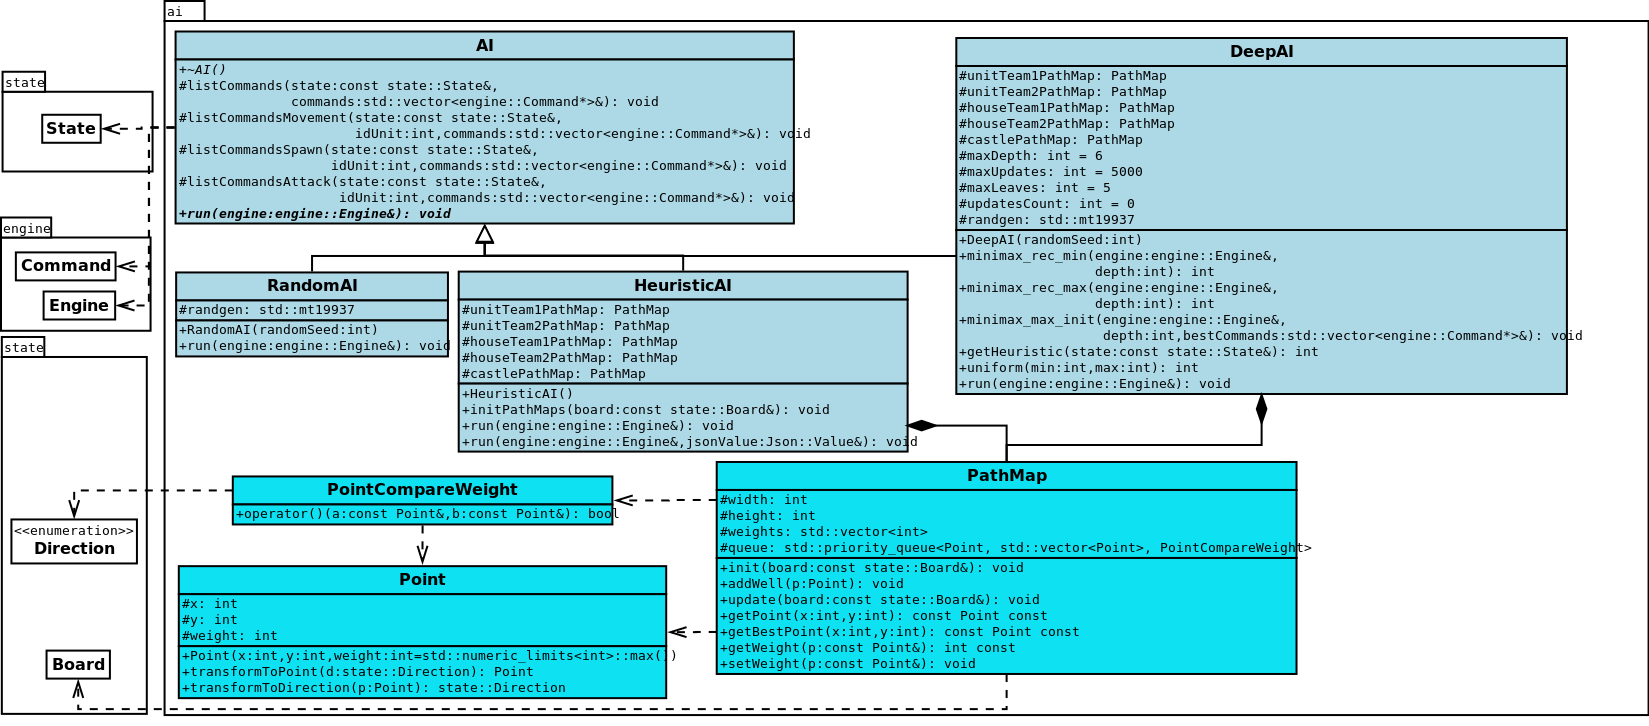
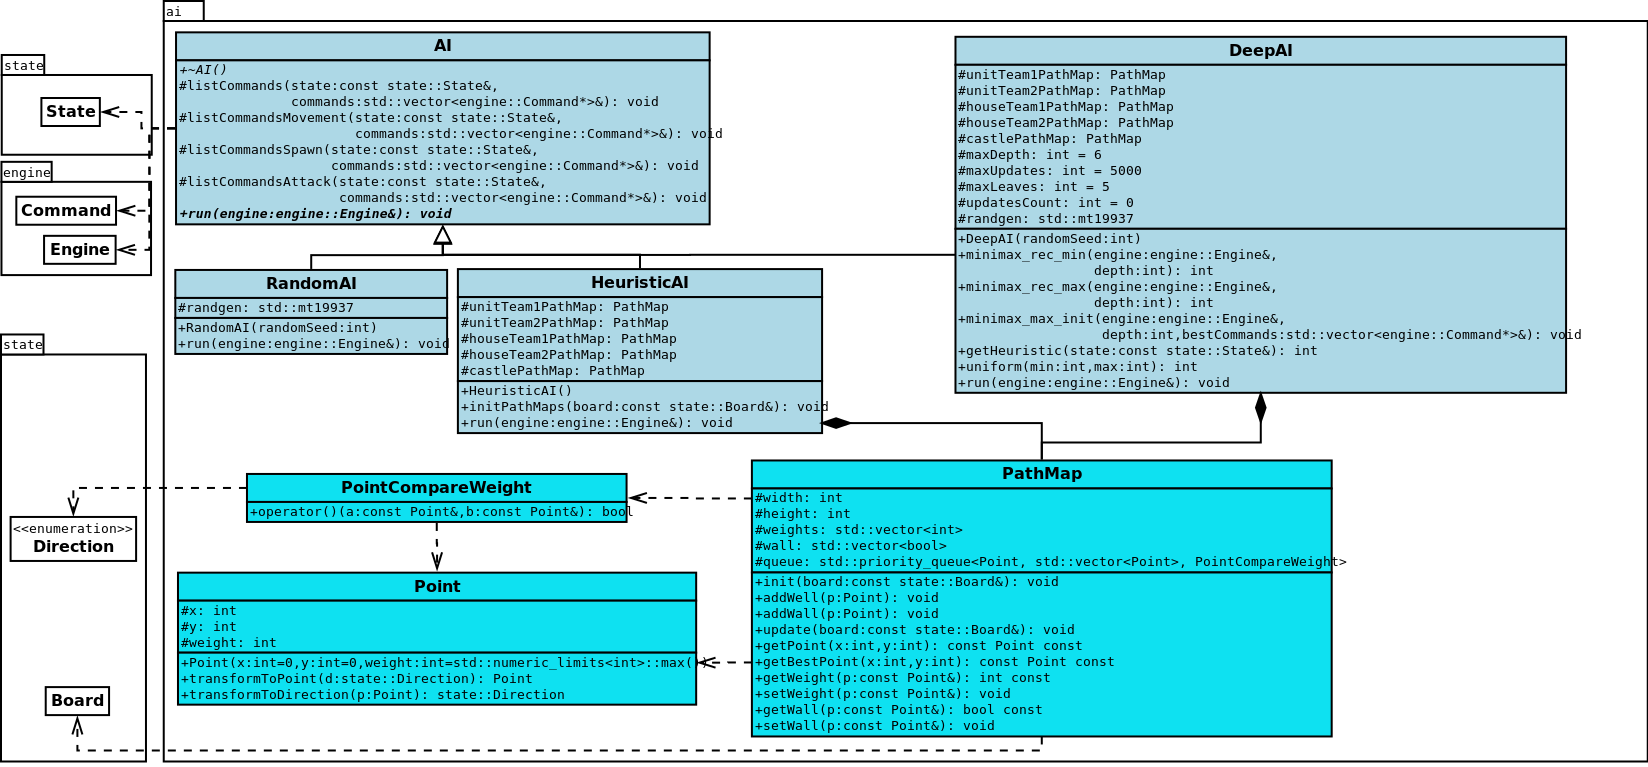
Remove run with json

diff --git a/src/shared/ai/HeuristicAI.cpp b/src/shared/ai/HeuristicAI.cpp
@@ -91,9 +91,15 @@ namespace ai {
                 if (commandsMovement.size() != 0) {
                     state::Unit* unit = engine.getState().getBoard().findUnit(((engine::MoveCommand*)commandsMovement.front())->getIdUnit());
                     Point pointUnit(unit->getPositionX(), unit->getPositionY());
-                    Point bestPoint = unitTeam2PathMap.getBestPoint(unit->getPositionX(), unit->getPositionY());
+                    Point bestPoint;
                     unsigned int it;
                     
+                    if(unitTeam2PathMap.getBestPoint(unit->getPositionX(), unit->getPositionY()).getWeight() < houseTeam2PathMap.getBestPoint(unit->getPositionX(), unit->getPositionY()).getWeight()) {
+                        bestPoint = unitTeam2PathMap.getBestPoint(unit->getPositionX(), unit->getPositionY());
+                    } else {
+                        bestPoint = houseTeam2PathMap.getBestPoint(unit->getPositionX(), unit->getPositionY());
+                    }
+
                     for (it = 0; it < commandsMovement.size(); it++) {
                         if (unit->getId() == ((engine::MoveCommand*)commandsMovement.at(it))->getIdUnit() && 
                                 ((engine::MoveCommand*)commandsMovement.at(it))->getDirection() == bestPoint.transformToDirection(pointUnit)) {
@@ -102,7 +108,7 @@ namespace ai {
                         }
                     }
                     if (it == commandsMovement.size()) {
-                        engine.getState().getBoard().findUnit(unit->getId())->setSpeed(0);
+                        unit->setSpeed(0);
                     }
                     break;
                 }
@@ -122,8 +128,14 @@ namespace ai {
                 if (commandsMovement.size() != 0) {
                     state::Unit* unit = engine.getState().getBoard().findUnit(((engine::MoveCommand*)commandsMovement.front())->getIdUnit());
                     Point pointUnit(unit->getPositionX(), unit->getPositionY());
-                    Point bestPoint = unitTeam1PathMap.getBestPoint(unit->getPositionX(), unit->getPositionY());
+                    Point bestPoint;
                     unsigned int it;
+                    
+                    if(unitTeam1PathMap.getBestPoint(unit->getPositionX(), unit->getPositionY()).getWeight() < houseTeam1PathMap.getBestPoint(unit->getPositionX(), unit->getPositionY()).getWeight()) {
+                        bestPoint = unitTeam1PathMap.getBestPoint(unit->getPositionX(), unit->getPositionY());
+                    } else {
+                        bestPoint = houseTeam1PathMap.getBestPoint(unit->getPositionX(), unit->getPositionY());
+                    }
                     
                     for (it = 0; it < commandsMovement.size(); it++) {
                         if (unit->getId() == ((engine::MoveCommand*)commandsMovement.at(it))->getIdUnit() && 
@@ -133,7 +145,7 @@ namespace ai {
                         }
                     }
                     if (it == commandsMovement.size()) {
-                        engine.getState().getBoard().findUnit(unit->getId())->setSpeed(0);
+                        unit->setSpeed(0);
                     }
                     break;
                 }
@@ -148,215 +160,6 @@ namespace ai {
         commandsAttack.clear();
         commandsMovement.clear();
         commandsSpawn.clear();
-    }
-
-    void HeuristicAI::run(engine::Engine& engine, Json::Value& jsonValue) {
-        const std::map<int, std::unique_ptr<state::Unit> >& units = engine.getState().getBoard().getUnits();
-        std::vector<engine::Command*> commands;
-        Point point(0, 0);
-        unsigned int it;
-
-        initPathMaps(engine.getState().getBoard());
-        listCommands(engine.getState(), commands);
-        
-        switch (engine.getState().getCurrentTeam()) {
-            case state::TeamId::TEAM_1:
-                for (auto& u : units) {
-                    if (u.second->getTeam() == state::TeamId::TEAM_1) {
-                        if(u.second->getTypeId() == state::UnitTypeId::LEADER) {
-                            bool commandSpawn = false;
-                            for (it = 0; it < commands.size(); it++) {
-                                if (commands.at(it)->getTypeId() == engine::CommandTypeId::SPAWN) {
-                                    if (((engine::SpawnCommand*)commands.at(it))->getX() == u.second->getPositionX() && ((engine::SpawnCommand*)commands.at(it))->getY() == u.second->getPositionY()) {
-                                        commandSpawn = true;
-                                        break;
-                                    }
-                                }
-                            }
-                            
-                            while (commandSpawn) {
-                                engine.addCommand(1, commands.at(it));
-                                engine.update(jsonValue);
-                                
-                                commandSpawn = false;
-                                listCommands(engine.getState(), commands);
-                                for (it = 0; it < commands.size(); it++) {
-                                    if (commands.at(it)->getTypeId() == engine::CommandTypeId::SPAWN) {
-                                        if (((engine::SpawnCommand*)commands.at(it))->getX() == u.second->getPositionX() && ((engine::SpawnCommand*)commands.at(it))->getY() == u.second->getPositionY()) {
-                                            commandSpawn = true;
-                                            break;
-                                        }
-                                    }
-                                }
-                            }
-                            
-                            commands.clear();
-                        }
-
-                        listCommands(engine.getState(), commands);
-                        if(unitTeam2PathMap.getBestPoint(u.second->getPositionX(), u.second->getPositionY()).getWeight() < houseTeam2PathMap.getBestPoint(u.second->getPositionX(), u.second->getPositionY()).getWeight()) {
-                            point = unitTeam2PathMap.getBestPoint(u.second->getPositionX(), u.second->getPositionY());
-                        } else {
-                            point = houseTeam2PathMap.getBestPoint(u.second->getPositionX(), u.second->getPositionY());
-                        }
-
-                        if (unitTeam2PathMap.getBestPoint(u.second->getPositionX(), u.second->getPositionY()).getWeight() == 0) {
-                            for (it = 0; it < commands.size(); it++) {
-                                if (commands.at(it)->getTypeId() == engine::CommandTypeId::ATTACK) {
-                                    if (((engine::AttackCommand*)commands.at(it))->getIdUnitAttacker() == u.second->getId()) {
-                                        engine.addCommand(1, commands.at(it));
-                                        engine.update(jsonValue);
-                                        break;
-                                    }
-                                }
-                            }
-
-                            commands.clear();
-                        } else {
-                            bool commandMovement = false;
-                            for (it = 0; it < commands.size(); it++) {
-                                if (commands.at(it)->getTypeId() == engine::CommandTypeId::MOVE) {
-                                    if (((engine::MoveCommand*)commands.at(it))->getIdUnit() == u.second->getId() 
-                                            && ((engine::MoveCommand*)commands.at(it))->getDirection() == 
-                                            point.transformToDirection(Point(u.second->getPositionX(), u.second->getPositionY()))) {
-                                        commandMovement = true;                                    
-                                        break;
-                                    }
-                                }
-                            }
-
-                            while (commandMovement) {
-                                engine.addCommand(1, commands.at(it));
-                                engine.update(jsonValue);
-                                initPathMaps(engine.getState().getBoard());
-                                listCommands(engine.getState(), commands);
-                                if(unitTeam2PathMap.getBestPoint(u.second->getPositionX(), u.second->getPositionY()).getWeight() < houseTeam2PathMap.getBestPoint(u.second->getPositionX(), u.second->getPositionY()).getWeight()) {
-                                    point = unitTeam2PathMap.getBestPoint(u.second->getPositionX(), u.second->getPositionY());
-                                } else {
-                                    point = houseTeam2PathMap.getBestPoint(u.second->getPositionX(), u.second->getPositionY());
-                                }
-                                commandMovement = false;
-
-                                for (it = 0; it < commands.size(); it++) {
-                                    if (commands.at(it)->getTypeId() == engine::CommandTypeId::MOVE) {
-                                        if (((engine::MoveCommand*)commands.at(it))->getIdUnit() == u.second->getId() 
-                                                && ((engine::MoveCommand*)commands.at(it))->getDirection() == 
-                                                point.transformToDirection(Point(u.second->getPositionX(), u.second->getPositionY()))) {
-                                            commandMovement = true;                                    
-                                            break;
-                                        }
-                                    }
-                                }
-                            }
-                            commands.clear();
-                        }
-                    }
-                }               
-                break;
-                
-            case state::TeamId::TEAM_2:
-                for (auto& u : units) {
-                    if (u.second->getTeam() == state::TeamId::TEAM_2) {
-                        if(u.second->getTypeId() == state::UnitTypeId::LEADER) {
-                            bool commandSpawn = false;
-                            for (it = 0; it < commands.size(); it++) {
-                                if (commands.at(it)->getTypeId() == engine::CommandTypeId::SPAWN) {
-                                    if (((engine::SpawnCommand*)commands.at(it))->getX() == u.second->getPositionX() && ((engine::SpawnCommand*)commands.at(it))->getY() == u.second->getPositionY()) {
-                                        commandSpawn = true;
-                                        break;
-                                    }
-                                }
-                            }
-                            
-                            while (commandSpawn) {
-                                engine.addCommand(1, commands.at(it));
-                                engine.update(jsonValue);
-                                
-                                commandSpawn = false;
-                                listCommands(engine.getState(), commands);
-                                for (it = 0; it < commands.size(); it++) {
-                                    if (commands.at(it)->getTypeId() == engine::CommandTypeId::SPAWN) {
-                                        if (((engine::SpawnCommand*)commands.at(it))->getX() == u.second->getPositionX() && ((engine::SpawnCommand*)commands.at(it))->getY() == u.second->getPositionY()) {
-                                            commandSpawn = true;
-                                            break;
-                                        }
-                                    }
-                                }
-                            }
-                            
-                            commands.clear();
-                        }
-                        
-                        listCommands(engine.getState(), commands);
-                        if(unitTeam1PathMap.getBestPoint(u.second->getPositionX(), u.second->getPositionY()).getWeight() < houseTeam1PathMap.getBestPoint(u.second->getPositionX(), u.second->getPositionY()).getWeight()) {
-                            point = unitTeam1PathMap.getBestPoint(u.second->getPositionX(), u.second->getPositionY());
-                        } else {
-                            point = houseTeam1PathMap.getBestPoint(u.second->getPositionX(), u.second->getPositionY());
-                        }
-                        
-                        if (unitTeam1PathMap.getBestPoint(u.second->getPositionX(), u.second->getPositionY()).getWeight() == 0) {
-                            for (it = 0; it < commands.size(); it++) {
-                                if (commands.at(it)->getTypeId() == engine::CommandTypeId::ATTACK) {
-                                    if (((engine::AttackCommand*)commands.at(it))->getIdUnitAttacker() == u.second->getId()) {
-                                        engine.addCommand(1, commands.at(it));
-                                        engine.update(jsonValue);
-                                        break;
-                                    }
-                                }
-                            }
-                        } else if (point.getWeight() > 0) {
-                            bool commandMovement = false;
-                            for (it = 0; it < commands.size(); it++) {
-                                if (commands.at(it)->getTypeId() == engine::CommandTypeId::MOVE) {
-                                    if (((engine::MoveCommand*)commands.at(it))->getIdUnit() == u.second->getId() 
-                                            && ((engine::MoveCommand*)commands.at(it))->getDirection() == 
-                                            point.transformToDirection(Point(u.second->getPositionX(), u.second->getPositionY()))) {
-                                        commandMovement = true;                                    
-                                        break;
-                                    }
-                                }
-                            }
-
-                            while (commandMovement) {
-                                engine.addCommand(1, commands.at(it));
-                                engine.update(jsonValue);
-                                initPathMaps(engine.getState().getBoard());
-                                listCommands(engine.getState(), commands);
-                                if(unitTeam1PathMap.getBestPoint(u.second->getPositionX(), u.second->getPositionY()).getWeight() < houseTeam1PathMap.getBestPoint(u.second->getPositionX(), u.second->getPositionY()).getWeight()) {
-                                    point = unitTeam1PathMap.getBestPoint(u.second->getPositionX(), u.second->getPositionY());
-                                } else {
-                                    point = houseTeam1PathMap.getBestPoint(u.second->getPositionX(), u.second->getPositionY());
-                                }
-                                commandMovement = false;
-
-                                for (it = 0; it < commands.size(); it++) {
-                                    if (commands.at(it)->getTypeId() == engine::CommandTypeId::MOVE) {
-                                        if (((engine::MoveCommand*)commands.at(it))->getIdUnit() == u.second->getId() 
-                                                && ((engine::MoveCommand*)commands.at(it))->getDirection() == 
-                                                point.transformToDirection(Point(u.second->getPositionX(), u.second->getPositionY()))) {
-                                            commandMovement = true;                                    
-                                            break;
-                                        }
-                                    }
-                                }
-                            }
-                            
-                            commands.clear();                            
-                        }
-                    }
-                }
-                break;
-            
-            case state::TeamId::INVALIDTEAM:
-                break;
-        }
-        
-            
-        engine.addCommand(1, new engine::EndTurnCommand());        
-        engine.addCommand(2, new engine::HandleWinCommand());
-        engine.update(jsonValue);
-        
-        commands.clear(); 
     }
     
     const PathMap& HeuristicAI::getHouseTeam1PathMap() const {

diff --git a/src/client/play.cpp b/src/client/play.cpp
@@ -13,7 +13,7 @@ namespace play {
         int windowHeight = 576;
         int mapWidth = 22;
         int mapHeight = 8;
-        int timePause = 1000;
+        int timePause = 100;
         int commandIterator = 0;
         Engine engine(mapWidth, mapHeight);  
         Scene* scene = new Scene(engine.getState());
@@ -51,10 +51,10 @@ namespace play {
                 } else if(event.type == sf::Event::KeyPressed && event.key.code == sf::Keyboard::P) {
                     pause = !pause;
                 } else if(event.type == sf::Event::KeyReleased && event.key.code == sf::Keyboard::Space) {
-                    if(timePause == 1000) {
+                    if(timePause == 100) {
                         timePause = 10;
                     } else {
-                        timePause = 1000;
+                        timePause = 100;
                     }
                 }
                 

diff --git a/src/server/record.cpp b/src/server/record.cpp
@@ -20,7 +20,10 @@ namespace record {
         engine.update(jsonCommands);
         
         while(engine.getState().getWinner() == TeamId::INVALIDTEAM) {
-            ai.run(engine, jsonCommands);
+            ai.run(engine);
+            engine.update(jsonCommands);
+            engine.addCommand(1, new HandleWinCommand());
+            engine.update(jsonCommands);
         }
         
         fileJson << styledWriter.write(jsonCommands);        
